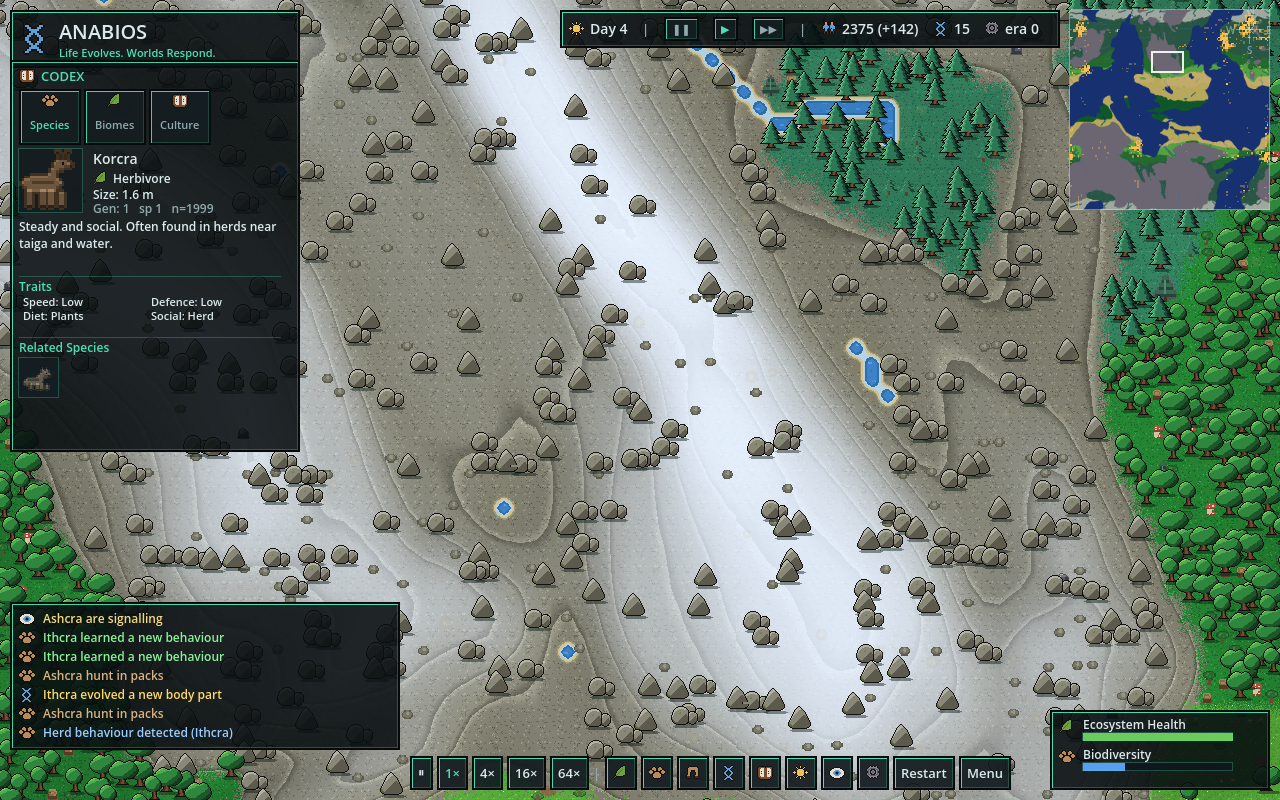
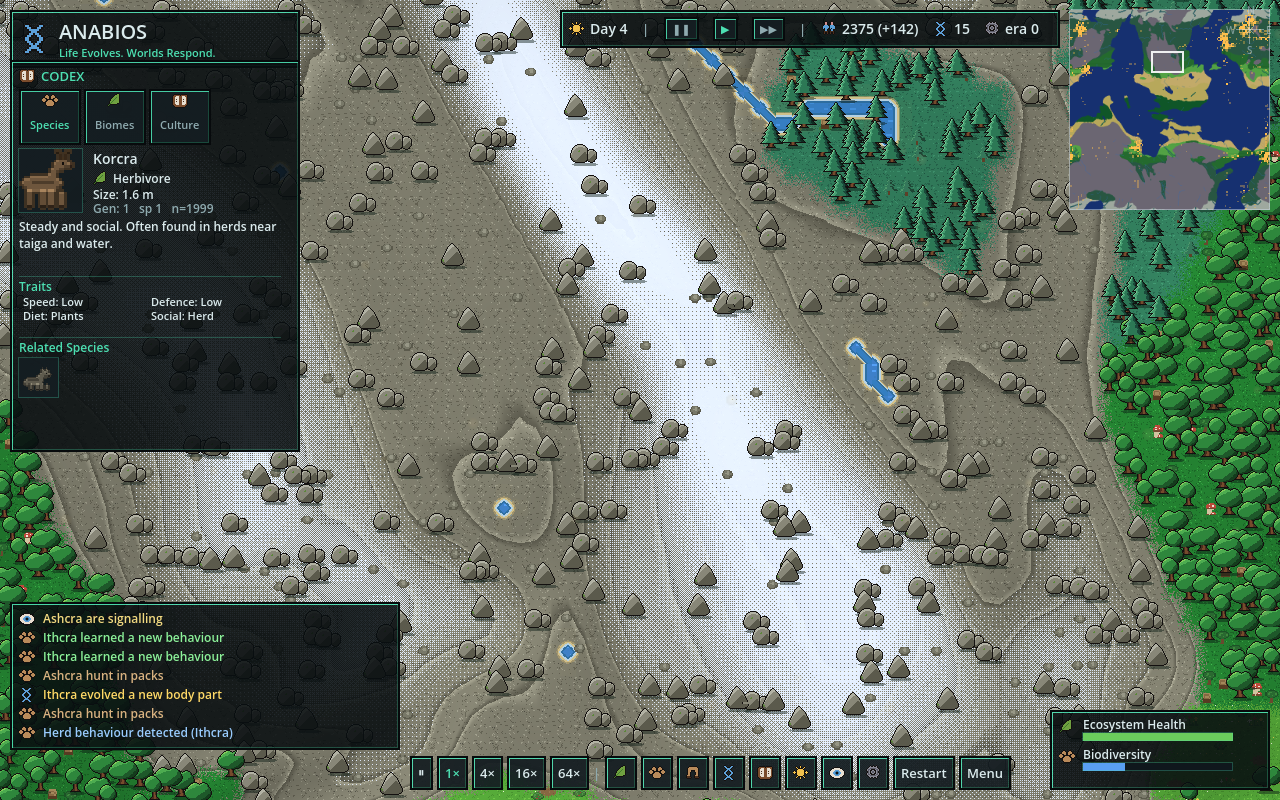
viewer: diagonal rivers run as one stream; cliff faces grow with the drop
The two diagonal-pair coast masks (water cells touching only at a corner)
used bilinear weights that pinched the pair apart, so a one-cell river
tracing diagonally rendered as a chain of beads with a land waist between
every two cells; they now carry a channel along the water diagonal, its
core painted river blue where it crosses the land corners. A southern
cliff face is as tall as its drop (a level keeps the soil band, three or
more levels most of a cell) and striated into stone columns.

Claude-Session: https://claude.ai/code/session_019kbTtZKC2VJBPY6SALU64h

diff --git a/gallery/README.md b/gallery/README.md
@@ -50,7 +50,8 @@ pins an agent in the unit card.
 | scale-settlement-t691-overview.png | `settlement` t691, `ANABIOS_CAM_FIT=1` | Whole-world framing: the overview mip with the density dots. |
 | scale-settlement-t891-market-8x.png | `settlement` t891 8× at (1060, 298) | The market square up close: stalls, goods on the counters, carts, the square's earth at the ground tiles' grain. |
 | scale-trade-hubs-t600-market-4x.png | `trade-hubs` t600 4× at (1060, 298) | A trade hub as a market square in the woods, a snow patch with an ordered-dither edge on the outcrop behind it. |
-| scale-riverlands-t291-relief-2x.png | `riverlands` t291 2× | Rivers with waterfalls on their steep stretches, contour-ledged snowy mountains in warm olive stone, forests mixing three oaks, clutter on the grass. |
+| scale-riverlands-t291-relief-2x.png | `riverlands` t291 2× | Rivers with waterfalls on their steep stretches, contour-ledged mountains in warm olive stone with a dithered snow line, forests mixing three oaks, clutter on the grass. |
+| scale-riverlands-t291-river-4x.png | `riverlands` t291 4× at (2367, 1017) | A one-cell river running diagonally through the oaks as one stream: the diagonal coast tiles carry a channel instead of pinching the cells into beads. |
 | scale-riverlands-t291-clutter-4x.png | `riverlands` t291 4× at (2500, 1200) | Flowers, tufts, mushrooms and stumps at 4×. |
 | scale-riverlands-t291-lake-4x.png | `riverlands` t291 4× at (2427, 1357) | A desert lake: one flat blue, sparse strokes, foam and beach from the coast autotile. |
 | scale-inventions-t2620-coast-2x.png | `inventions` t2620 2× (`ANABIOS_CODEX_TAB=1`) | Hominin bands along a coast. |
